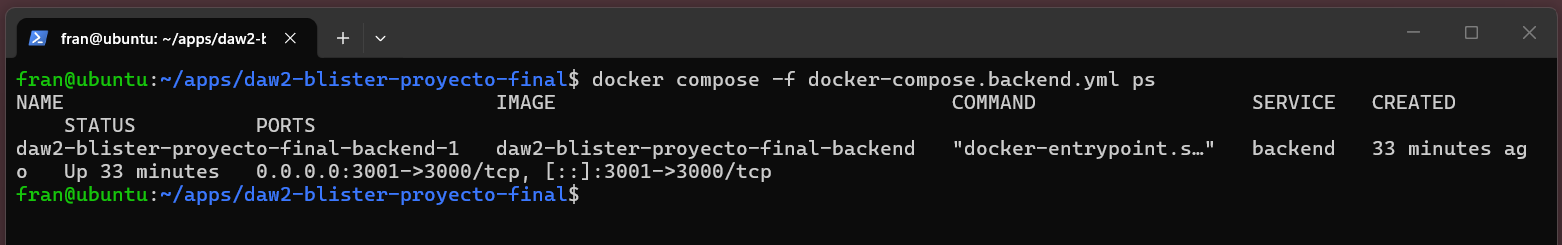
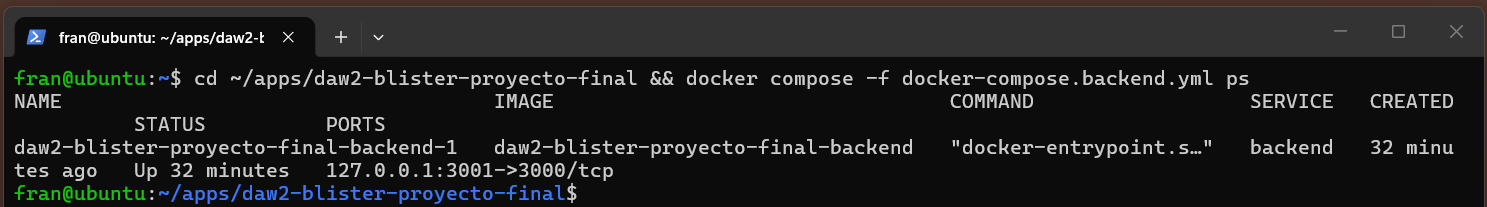
Refactor code structure for improved readability and maintainability

diff --git a/docs/08-despliegue.md b/docs/08-despliegue.md
@@ -300,6 +300,7 @@ Una configuración incorrecta de CORS suele manifestarse como error en navegador
 ### 4.4 Construcción y arranque
 
 ```bash
+cd ~/apps/daw2-blister-proyecto-final
 docker compose -f docker-compose.backend.yml up -d --build
 docker ps
 docker compose -f docker-compose.backend.yml logs -f backend
@@ -508,18 +509,11 @@ docker compose -f docker-compose.backend.yml logs -f backend
 curl https://api.miblister.es/api/v1/health
 ```
 
-El diagnóstico de despliegue se organiza en tres puntos: salida de build, logs del contenedor y estado de Nginx. En cambios críticos, el commit anterior identificado permite volver temporalmente con `git checkout <commit>` y reconstruir.
+El diagnóstico de despliegue se organiza en tres puntos: salida de build, logs del contenedor y estado de Nginx. En cambios críticos, el commit anterior identificado permite volver temporalmente con `git checkout <commit>` y reconstruir. La evidencia visual del flujo de integración y despliegue se recoge en las capturas siguientes.
 
-Evidencias de CI/CD:
+![Workflow CI completado correctamente](./assets/despliegue/github-actions-ci-run.png)
 
-| Captura | Cómo obtenerla |
-| :--- | :--- |
-| CI en verde | GitHub → Actions → workflow `CI` → último run correcto en `dev` o `main`; capturar el resumen del run con los jobs en verde. |
-| Deploy backend VPS en verde | GitHub → Actions → workflow `Deploy backend VPS` → último run correcto tras un push a `dev`; capturar el job `deploy` completado. |
-
-![Captura. Workflow CI completado correctamente](assets/evidence/github-actions-ci-run.png)
-
-![Captura. Workflow Deploy backend VPS completado correctamente](assets/evidence/github-actions-deploy-vps-run.png)
+![Workflow Deploy backend VPS completado correctamente](./assets/despliegue/github-actions-deploy-vps-run.png)
 
 ## 8. Verificación posterior al despliegue
 
@@ -538,16 +532,16 @@ Comprobaciones mínimas:
 
 El despliegue queda respaldado por evidencias funcionales y operativas:
 
-| Evidencia | Cómo obtenerla |
+| Evidencia | Verificación documentada |
 | :--- | :--- |
-| Healthcheck público | Captura o salida de `curl https://api.miblister.es/api/v1/health`. |
-| Swagger | Captura de `/api/v1/docs`. |
-| Frontend Render | Captura de la URL pública cargando la PWA. |
-| Docker VPS | Salida de `docker ps` con el contenedor backend. |
-| Certificado | Captura del candado HTTPS o salida de Certbot. |
-| Flujo real | Capturas de login, botiquín, tratamiento y calendario. |
-| Logs de Nginx | `sudo grep '/api/v1/health' /var/log/nginx/access.log | tail -n 20`. |
-| Prueba ligera de carga | Bucle controlado de `curl` contra el healthcheck público, con resumen de códigos y tiempos. |
+| Healthcheck público | Respuesta `200` del endpoint `/api/v1/health` por HTTPS. |
+| Swagger | Publicación de `/api/v1/docs` en el dominio de producción. |
+| Frontend Render | Carga correcta de la PWA pública. |
+| Docker VPS | Contenedor backend en ejecución en la VPS. |
+| Certificado | Certificado activo de Let's Encrypt para `api.miblister.es`. |
+| Flujo real | Recorrido funcional sobre login, botiquín, tratamiento y calendario. |
+| Logs de Nginx | Registro en `access.log` de peticiones atendidas por el proxy. |
+| Prueba ligera de carga | Serie controlada de peticiones al healthcheck con resumen de tiempos y códigos. |
 
 ## 9. URLs y evidencias
 

diff --git a/docs/08-despliegue-eval.md b/docs/08-despliegue-eval.md
@@ -153,7 +153,7 @@ services:
 Comprobación del estado y de la configuración resuelta:
 
 ```bash
-docker compose -f docker-compose.backend.yml ps
+cd ~/apps/daw2-blister-proyecto-final && docker compose -f docker-compose.backend.yml ps
 ```
 
 ```text
@@ -168,7 +168,7 @@ Esta evidencia demuestra dos cosas: el contenedor lleva tiempo activo con `resta
 `docker compose config` se usa para inspeccionar la configuración efectiva (con variables expandidas) sin tocar el contenedor:
 
 ```bash
-docker compose -f docker-compose.backend.yml config
+cd ~/apps/daw2-blister-proyecto-final && docker compose -f docker-compose.backend.yml config
 ```
 
 Esto resulta útil para verificar que `env_file` se aplica correctamente y que ninguna variable obligatoria queda sin valor.
@@ -424,7 +424,7 @@ El recorrido completo de una petición es:
 La ruta interna se comprueba entrando al contenedor, ya que `localhost:3000` desde la VPS host no apunta al proceso Express:
 
 ```bash
-docker compose -f docker-compose.backend.yml exec backend wget -qO- http://127.0.0.1:3000/api/v1/health
+cd ~/apps/daw2-blister-proyecto-final && docker compose -f docker-compose.backend.yml exec backend wget -qO- http://127.0.0.1:3000/api/v1/health
 ```
 
 ```text
@@ -440,8 +440,8 @@ Que las rutas pública, local e interna devuelvan el mismo JSON demuestra que el
 La última comprobación combina el estado del servicio con sus logs recientes para confirmar que no hay errores al servir tráfico real:
 
 ```bash
-docker compose -f docker-compose.backend.yml ps
-docker compose -f docker-compose.backend.yml logs --tail=80 backend
+cd ~/apps/daw2-blister-proyecto-final && docker compose -f docker-compose.backend.yml ps
+cd ~/apps/daw2-blister-proyecto-final && docker compose -f docker-compose.backend.yml logs --tail=80 backend
 ```
 
 Salida resumida (extracto):

diff --git a/docs/07-pruebas.md b/docs/07-pruebas.md
@@ -260,20 +260,15 @@ La cobertura backend se publica como artefacto del workflow. El porcentaje exact
 
 El informe de pruebas se compone de evidencias generadas por la integración continua y por ejecuciones locales verificables:
 
-| Evidencia | Dónde obtenerla |
+| Evidencia | Referencia |
 | :--- | :--- |
-| Estado del workflow | Pestaña Actions del repositorio. |
+| Estado del workflow | Ejecuciones correctas de GitHub Actions. |
 | Cobertura backend | Artefacto generado por `npm run test:coverage`. |
-| Build frontend | Log del job Frontend o ejecución local. |
-| Playwright | Reporte HTML o salida de consola. |
-| Docker Compose | `docker compose ps` y healthcheck. |
+| Build frontend | Job Frontend de CI y ejecución local verificada. |
+| Playwright | Reporte HTML o salida de consola de la suite E2E. |
+| Docker Compose | Estado de servicios y healthcheck de la pila integrada. |
 
-Evidencia visual del workflow:
-
-| Captura | Cómo obtenerla |
-| :--- | :--- |
-| CI en verde | GitHub → Actions → workflow `CI` → último run correcto en `dev` o `main`; capturar el resumen con los jobs Backend, Frontend y Frontend E2E cuando aparezcan en verde. |
-| Deploy VPS en verde | GitHub → Actions → workflow `Deploy backend VPS` → último run correcto en `dev`; capturar el resumen del job `deploy`. |
+La evidencia visual del flujo de integración y despliegue queda recogida en las capturas siguientes: una ejecución correcta del workflow `CI` y una ejecución correcta del workflow `Deploy backend VPS`.
 
 <img width="2557" height="1082" alt="image" src="https://github.com/user-attachments/assets/8418ea38-d911-459e-afe5-55a6c543a182" />
 
